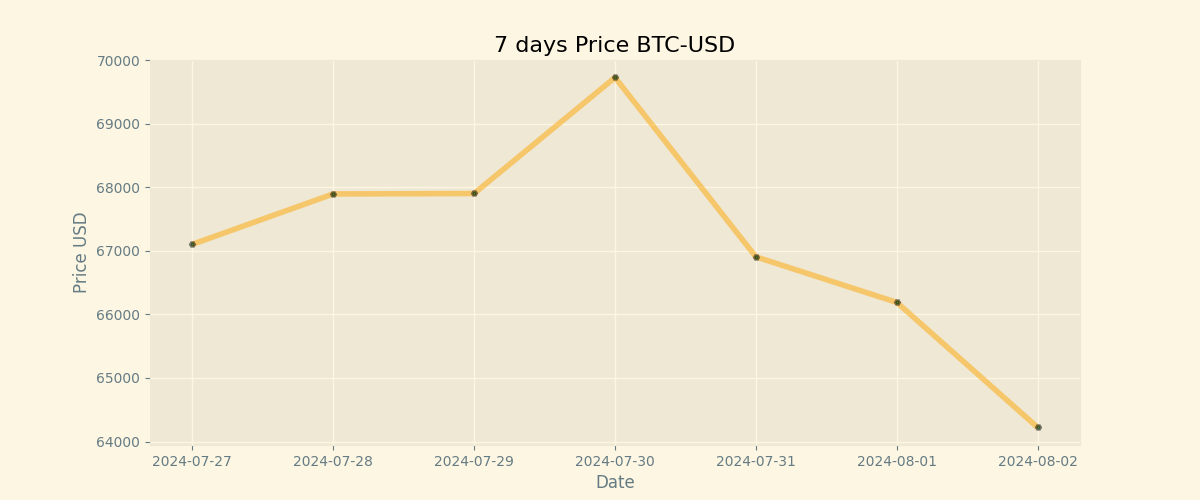
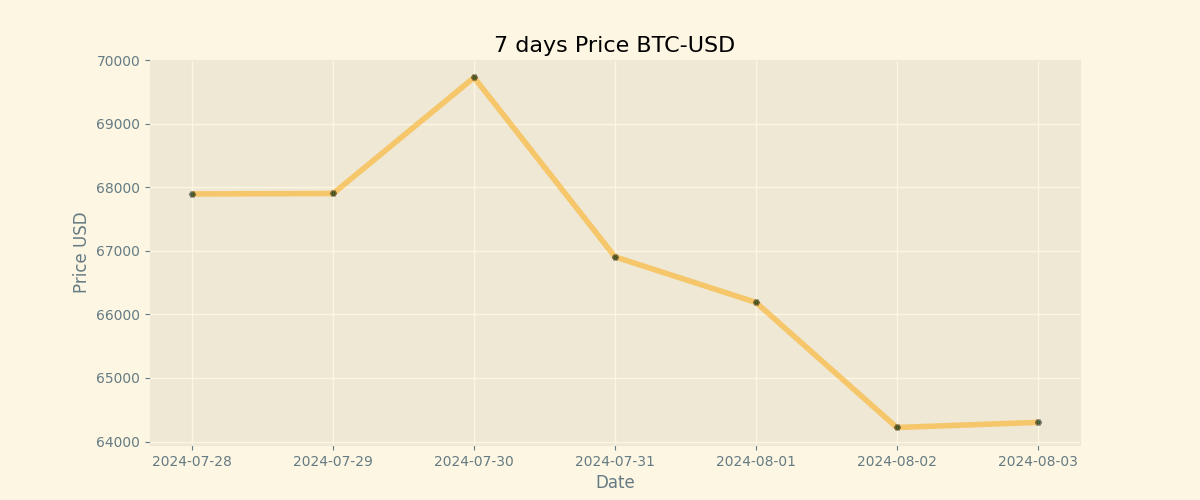
Duty Updates 2024-08-03

diff --git a/README.md b/README.md
@@ -9,8 +9,8 @@
 
 | Currency | Price           |
 | -------- | --------------- |
-| **BTC**  | **$ 64220.27** |
-| **ETH**  | **$ 3130.0** |
+| **BTC**  | **$ 64301.0** |
+| **ETH**  | **$ 3154.66** |
 
 ## BTC chart
 
